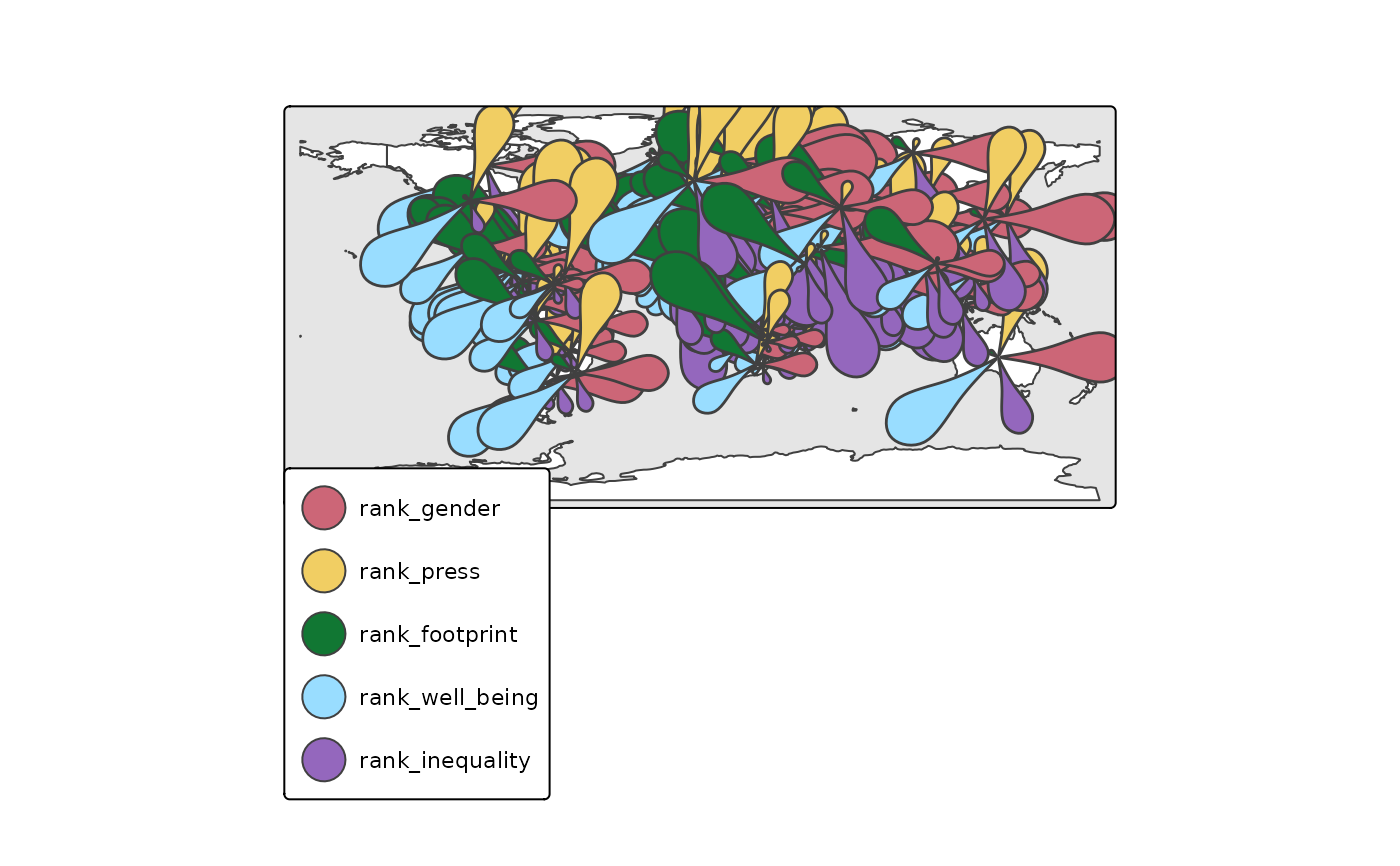
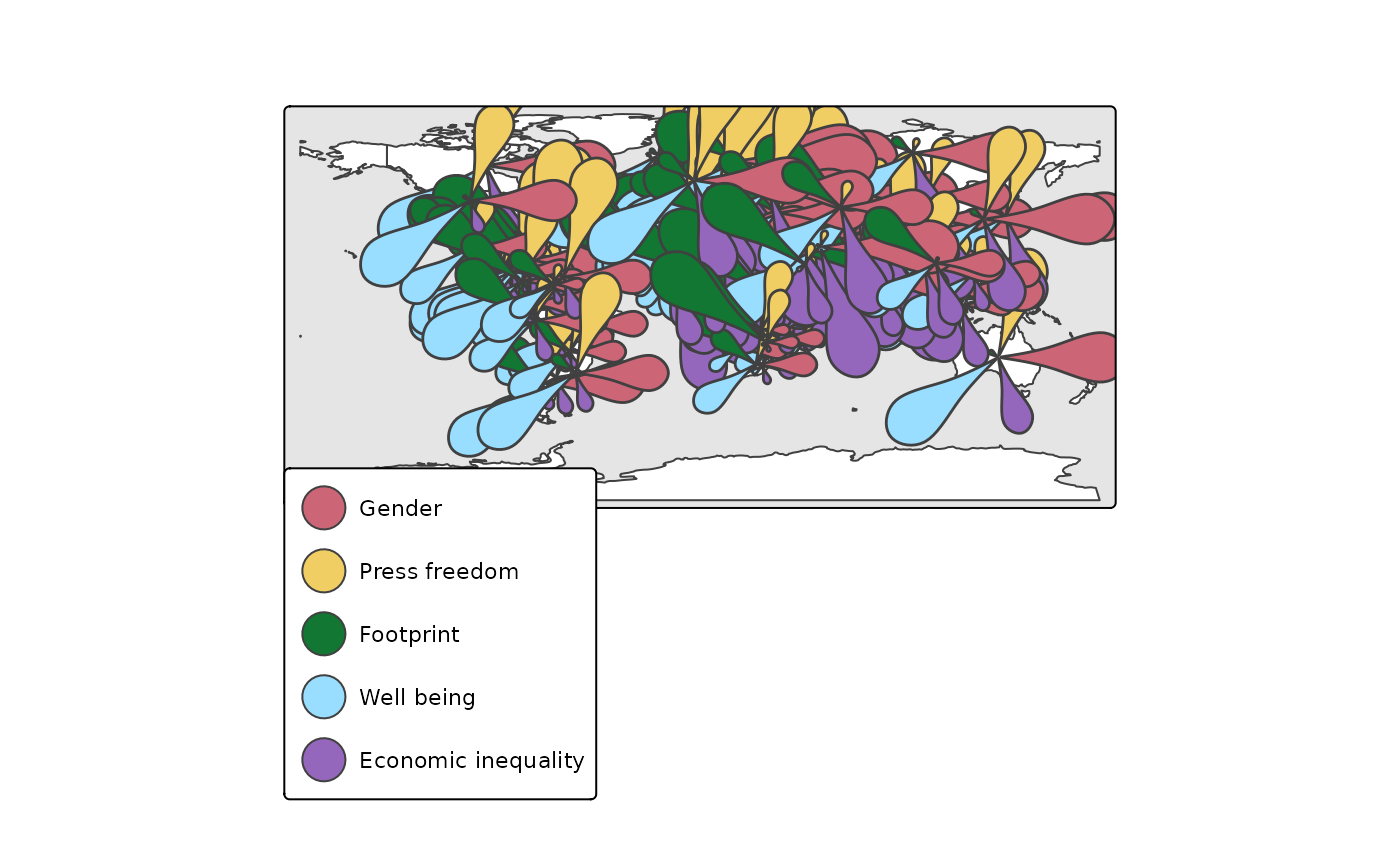
Deploying to gh-pages from @ r-tmap/tmap.glyphs@15ee0741f3b29877555251bc17bd8edcf9b6b12f 🚀

diff --git a/reference/tm_flowers.html b/reference/tm_flowers.html
@@ -7,7 +7,7 @@
 
     <a class="navbar-brand me-2" href="../index.html">tmap.glyphs</a>
 
-    <small class="nav-text text-muted me-auto" data-bs-toggle="tooltip" data-bs-placement="bottom" title="">0.1-1</small>
+    <small class="nav-text text-muted me-auto" data-bs-toggle="tooltip" data-bs-placement="bottom" title="">0.2</small>
 
 
     <button class="navbar-toggler" type="button" data-bs-toggle="collapse" data-bs-target="#navbar" aria-controls="navbar" aria-expanded="false" aria-label="Toggle navigation">
@@ -270,31 +270,30 @@ In that case, each list of formatting options is applied to the named variable.<
 <span class="r-in"><span><span class="va">World</span><span class="op">$</span><span class="va">rank_gender</span> <span class="op">=</span> <span class="fu"><a href="https://rdrr.io/r/base/quit.html" class="external-link">q</a></span><span class="op">(</span><span class="fl">1</span> <span class="op">-</span> <span class="va">World</span><span class="op">$</span><span class="va">gender</span><span class="op">)</span></span></span>
 <span class="r-in"><span></span></span>
 <span class="r-in"><span><span class="fu"><a href="https://r-tmap.github.io/tmap/reference/tm_shape.html" class="external-link">tm_shape</a></span><span class="op">(</span><span class="va">World</span><span class="op">)</span> <span class="op">+</span></span></span>
-<span class="r-in"><span>  <span class="fu"><a href="https://r-tmap.github.io/tmap/reference/tm_polygons.html" class="external-link">tm_polygons</a></span><span class="op">(</span>fill <span class="op">=</span> <span class="st">"white"</span>, popup.vars <span class="op">=</span> <span class="cn">FALSE</span><span class="op">)</span> <span class="op">+</span></span></span>
+<span class="r-in"><span>  <span class="fu"><a href="https://r-tmap.github.io/tmap/reference/tm_polygons.html" class="external-link">tm_polygons</a></span><span class="op">(</span>fill <span class="op">=</span> <span class="st">"white"</span>, popup <span class="op">=</span> <span class="cn">FALSE</span><span class="op">)</span> <span class="op">+</span></span></span>
 <span class="r-in"><span><span class="fu"><a href="https://r-tmap.github.io/tmap/reference/tm_shape.html" class="external-link">tm_shape</a></span><span class="op">(</span><span class="va">World</span><span class="op">)</span> <span class="op">+</span>  </span></span>
 <span class="r-in"><span>  <span class="fu">tm_flowers</span><span class="op">(</span></span></span>
 <span class="r-in"><span>    parts <span class="op">=</span> </span></span>
 <span class="r-in"><span>      <span class="fu"><a href="https://r-tmap.github.io/tmap/reference/tm_vars.html" class="external-link">tm_vars</a></span><span class="op">(</span><span class="fu"><a href="https://rdrr.io/r/base/c.html" class="external-link">c</a></span><span class="op">(</span><span class="st">"rank_gender"</span>, <span class="st">"rank_press"</span>, <span class="st">"rank_footprint"</span>, </span></span>
 <span class="r-in"><span>            <span class="st">"rank_well_being"</span>, <span class="st">"rank_inequality"</span><span class="op">)</span>, multivariate <span class="op">=</span> <span class="cn">TRUE</span><span class="op">)</span>,</span></span>
-<span class="r-in"><span>    fill.scale <span class="op">=</span> <span class="fu"><a href="https://r-tmap.github.io/tmap/reference/tm_scale.html" class="external-link">tm_scale</a></span><span class="op">(</span>values <span class="op">=</span> <span class="st">"friendly5"</span><span class="op">)</span>,</span></span>
+<span class="r-in"><span>    fill.scale <span class="op">=</span> <span class="fu"><a href="https://r-tmap.github.io/tmap/reference/tm_scale.html" class="external-link">tm_scale</a></span><span class="op">(</span>values <span class="op">=</span> <span class="st">"friendly5"</span>, labels <span class="op">=</span> <span class="fu"><a href="https://rdrr.io/r/base/c.html" class="external-link">c</a></span><span class="op">(</span><span class="st">"Gender"</span>, <span class="st">"Press freedom"</span>, <span class="st">"Footprint"</span>, <span class="st">"Well being"</span>, <span class="st">"Economic inequality"</span><span class="op">)</span><span class="op">)</span>,</span></span>
 <span class="r-in"><span>    size <span class="op">=</span> <span class="fl">1.5</span>, </span></span>
-<span class="r-in"><span>    popup <span class="op">=</span> <span class="fu"><a href="https://r-tmap.github.io/tmap/reference/tm_popup.html" class="external-link">tm_popup</a></span><span class="op">(</span>vars <span class="op">=</span> <span class="fu"><a href="https://rdrr.io/r/base/c.html" class="external-link">c</a></span><span class="op">(</span><span class="st">"Gender"</span> <span class="op">=</span> <span class="st">"norm_gender"</span>, <span class="st">"Press freedom"</span> <span class="op">=</span> <span class="st">"norm_press"</span>, <span class="st">"Footprint"</span> <span class="op">=</span> <span class="st">"norm_footprint"</span>, <span class="st">"Well being"</span> <span class="op">=</span> <span class="st">"norm_well_being"</span>, <span class="st">"Economic inequality"</span> <span class="op">=</span>  <span class="st">"norm_inequality"</span><span class="op">)</span><span class="op">)</span>, id <span class="op">=</span> <span class="st">"name"</span><span class="op">)</span> <span class="op">+</span> </span></span>
+<span class="r-in"><span>    popup <span class="op">=</span> <span class="fu"><a href="https://r-tmap.github.io/tmap/reference/tm_popup.html" class="external-link">tm_popup</a></span><span class="op">(</span></span></span>
+<span class="r-in"><span>      vars <span class="op">=</span> <span class="fu"><a href="https://rdrr.io/r/base/c.html" class="external-link">c</a></span><span class="op">(</span><span class="st">"Gender"</span> <span class="op">=</span> <span class="st">"rank_gender"</span>, </span></span>
+<span class="r-in"><span>           <span class="st">"Press freedom"</span> <span class="op">=</span> <span class="st">"rank_press"</span>, </span></span>
+<span class="r-in"><span>           <span class="st">"Footprint"</span> <span class="op">=</span> <span class="st">"rank_footprint"</span>, </span></span>
+<span class="r-in"><span>           <span class="st">"Well being"</span> <span class="op">=</span> <span class="st">"rank_well_being"</span>, </span></span>
+<span class="r-in"><span>           <span class="st">"Economic inequality"</span> <span class="op">=</span>  <span class="st">"rank_inequality"</span><span class="op">)</span>,</span></span>
+<span class="r-in"><span>      title <span class="op">=</span> <span class="st">"name"</span><span class="op">)</span><span class="op">)</span> <span class="op">+</span> </span></span>
 <span class="r-in"><span><span class="fu"><a href="https://r-tmap.github.io/tmap/reference/tm_basemap.html" class="external-link">tm_basemap</a></span><span class="op">(</span><span class="cn">NULL</span><span class="op">)</span> <span class="op">+</span></span></span>
 <span class="r-in"><span><span class="fu"><a href="https://r-tmap.github.io/tmap/reference/tm_layout.html" class="external-link">tm_layout</a></span><span class="op">(</span>bg.color <span class="op">=</span> <span class="st">"grey90"</span><span class="op">)</span></span></span>
-<span class="r-err co"><span class="r-pr">#&gt;</span> <span class="error">Error in eval(substitute(expr), e):</span> `popup.vars` must be one of "iso_a3", "name", "sovereignt", "continent",</span>
-<span class="r-err co"><span class="r-pr">#&gt;</span> "area", "pop_est", "pop_est_dens", "economy", "income_grp", "gdp_cap_est",</span>
-<span class="r-err co"><span class="r-pr">#&gt;</span> "life_exp", "well_being", "footprint", "HPI", "inequality", "gender", "press",</span>
-<span class="r-err co"><span class="r-pr">#&gt;</span> "rank_well_being", "rank_footprint", "rank_inequality", "rank_press", or</span>
-<span class="r-err co"><span class="r-pr">#&gt;</span> "rank_gender", not "norm_gender".</span>
-<span class="r-err co"><span class="r-pr">#&gt;</span> <span style="color: #00BBBB;">ℹ</span> Did you mean "rank_gender"?</span>
+<span class="r-plt img"><img src="tm_flowers-2.png" alt="" width="700" height="433"></span>
 <span class="r-in"><span></span></span>
 <span class="r-in"><span><span class="fu"><a href="https://r-tmap.github.io/tmap/reference/tmap_mode.html" class="external-link">ttmp</a></span><span class="op">(</span><span class="op">)</span></span></span>
 <span class="r-msg co"><span class="r-pr">#&gt;</span> <span style="color: #00BBBB;">ℹ</span> tmap modes <span style="color: #0000BB;">"plot"</span> - <span style="color: #0000BB; font-weight: bold;">"view"</span></span>
 <span class="r-msg co"><span class="r-pr">#&gt;</span> <span style="color: #00BBBB;">ℹ</span> toggle with `tmap::ttm()`</span>
 <span class="r-msg co"><span class="r-pr">#&gt;</span> <span style="color: #555555;">This message is displayed once per session.</span></span>
-<span class="r-msg co"><span class="r-pr">#&gt;</span> <span style="color: #00BB00;">[view mode]</span> WebGL does not work (yet) with projected map projections, so it has</span>
-<span class="r-msg co"><span class="r-pr">#&gt;</span> been disabled.</span>
-<span class="r-msg co"><span class="r-pr">#&gt;</span> <span style="color: #555555;">This message is displayed once per session.</span></span>
+<span class="r-err co"><span class="r-pr">#&gt;</span> <span class="error">Error:</span> not all variables specified in tm_vars are found</span>
 </code></pre></div>
     </div>
   </main><aside class="col-md-3"><nav id="toc" aria-label="Table of contents"><h2>On this page</h2>

diff --git a/authors.html b/authors.html
@@ -7,7 +7,7 @@
 
     <a class="navbar-brand me-2" href="index.html">tmap.glyphs</a>
 
-    <small class="nav-text text-muted me-auto" data-bs-toggle="tooltip" data-bs-placement="bottom" title="">0.1-1</small>
+    <small class="nav-text text-muted me-auto" data-bs-toggle="tooltip" data-bs-placement="bottom" title="">0.2</small>
 
 
     <button class="navbar-toggler" type="button" data-bs-toggle="collapse" data-bs-target="#navbar" aria-controls="navbar" aria-expanded="false" aria-label="Toggle navigation">
@@ -46,13 +46,13 @@
 
       <p>Tennekes M (2026).
 <em>tmap.glyphs: Extension to 'tmap' for Creating Glyphs</em>.
-R package version 0.1-1, <a href="https://github.com/r-tmap/tmap.glyphs" class="external-link">https://github.com/r-tmap/tmap.glyphs</a>.
+R package version 0.2, <a href="https://github.com/r-tmap/tmap.glyphs" class="external-link">https://github.com/r-tmap/tmap.glyphs</a>.
 </p>
       <pre>@Manual{,
   title = {tmap.glyphs: Extension to 'tmap' for Creating Glyphs},
   author = {Martijn Tennekes},
   year = {2026},
-  note = {R package version 0.1-1},
+  note = {R package version 0.2},
   url = {https://github.com/r-tmap/tmap.glyphs},
 }</pre>
     </div>

diff --git a/404.html b/404.html
@@ -26,7 +26,7 @@
 
     <a class="navbar-brand me-2" href="https://r-tmap.github.io/tmap.glyphs/index.html">tmap.glyphs</a>
 
-    <small class="nav-text text-muted me-auto" data-bs-toggle="tooltip" data-bs-placement="bottom" title="">0.1-1</small>
+    <small class="nav-text text-muted me-auto" data-bs-toggle="tooltip" data-bs-placement="bottom" title="">0.2</small>
 
 
     <button class="navbar-toggler" type="button" data-bs-toggle="collapse" data-bs-target="#navbar" aria-controls="navbar" aria-expanded="false" aria-label="Toggle navigation">

diff --git a/LICENSE-text.html b/LICENSE-text.html
@@ -7,7 +7,7 @@
 
     <a class="navbar-brand me-2" href="index.html">tmap.glyphs</a>
 
-    <small class="nav-text text-muted me-auto" data-bs-toggle="tooltip" data-bs-placement="bottom" title="">0.1-1</small>
+    <small class="nav-text text-muted me-auto" data-bs-toggle="tooltip" data-bs-placement="bottom" title="">0.2</small>
 
 
     <button class="navbar-toggler" type="button" data-bs-toggle="collapse" data-bs-target="#navbar" aria-controls="navbar" aria-expanded="false" aria-label="Toggle navigation">

diff --git a/articles/donuts.html b/articles/donuts.html
@@ -25,7 +25,7 @@
 
     <a class="navbar-brand me-2" href="../index.html">tmap.glyphs</a>
 
-    <small class="nav-text text-muted me-auto" data-bs-toggle="tooltip" data-bs-placement="bottom" title="">0.1-1</small>
+    <small class="nav-text text-muted me-auto" data-bs-toggle="tooltip" data-bs-placement="bottom" title="">0.2</small>
 
 
     <button class="navbar-toggler" type="button" data-bs-toggle="collapse" data-bs-target="#navbar" aria-controls="navbar" aria-expanded="false" aria-label="Toggle navigation">

diff --git a/articles/flowers.html b/articles/flowers.html
@@ -25,7 +25,7 @@
 
     <a class="navbar-brand me-2" href="../index.html">tmap.glyphs</a>
 
-    <small class="nav-text text-muted me-auto" data-bs-toggle="tooltip" data-bs-placement="bottom" title="">0.1-1</small>
+    <small class="nav-text text-muted me-auto" data-bs-toggle="tooltip" data-bs-placement="bottom" title="">0.2</small>
 
 
     <button class="navbar-toggler" type="button" data-bs-toggle="collapse" data-bs-target="#navbar" aria-controls="navbar" aria-expanded="false" aria-label="Toggle navigation">

diff --git a/articles/index.html b/articles/index.html
@@ -7,7 +7,7 @@
 
     <a class="navbar-brand me-2" href="../index.html">tmap.glyphs</a>
 
-    <small class="nav-text text-muted me-auto" data-bs-toggle="tooltip" data-bs-placement="bottom" title="">0.1-1</small>
+    <small class="nav-text text-muted me-auto" data-bs-toggle="tooltip" data-bs-placement="bottom" title="">0.2</small>
 
 
     <button class="navbar-toggler" type="button" data-bs-toggle="collapse" data-bs-target="#navbar" aria-controls="navbar" aria-expanded="false" aria-label="Toggle navigation">

diff --git a/index.html b/index.html
@@ -28,7 +28,7 @@
 
     <a class="navbar-brand me-2" href="index.html">tmap.glyphs</a>
 
-    <small class="nav-text text-muted me-auto" data-bs-toggle="tooltip" data-bs-placement="bottom" title="">0.1-1</small>
+    <small class="nav-text text-muted me-auto" data-bs-toggle="tooltip" data-bs-placement="bottom" title="">0.2</small>
 
 
     <button class="navbar-toggler" type="button" data-bs-toggle="collapse" data-bs-target="#navbar" aria-controls="navbar" aria-expanded="false" aria-label="Toggle navigation">

diff --git a/reference/index.html b/reference/index.html
@@ -7,7 +7,7 @@
 
     <a class="navbar-brand me-2" href="../index.html">tmap.glyphs</a>
 
-    <small class="nav-text text-muted me-auto" data-bs-toggle="tooltip" data-bs-placement="bottom" title="">0.1-1</small>
+    <small class="nav-text text-muted me-auto" data-bs-toggle="tooltip" data-bs-placement="bottom" title="">0.2</small>
 
 
     <button class="navbar-toggler" type="button" data-bs-toggle="collapse" data-bs-target="#navbar" aria-controls="navbar" aria-expanded="false" aria-label="Toggle navigation">

diff --git a/reference/internals_glyphs.html b/reference/internals_glyphs.html
@@ -7,7 +7,7 @@
 
     <a class="navbar-brand me-2" href="../index.html">tmap.glyphs</a>
 
-    <small class="nav-text text-muted me-auto" data-bs-toggle="tooltip" data-bs-placement="bottom" title="">0.1-1</small>
+    <small class="nav-text text-muted me-auto" data-bs-toggle="tooltip" data-bs-placement="bottom" title="">0.2</small>
 
 
     <button class="navbar-toggler" type="button" data-bs-toggle="collapse" data-bs-target="#navbar" aria-controls="navbar" aria-expanded="false" aria-label="Toggle navigation">

diff --git a/reference/tm_donuts.html b/reference/tm_donuts.html
@@ -7,7 +7,7 @@
 
     <a class="navbar-brand me-2" href="../index.html">tmap.glyphs</a>
 
-    <small class="nav-text text-muted me-auto" data-bs-toggle="tooltip" data-bs-placement="bottom" title="">0.1-1</small>
+    <small class="nav-text text-muted me-auto" data-bs-toggle="tooltip" data-bs-placement="bottom" title="">0.2</small>
 
 
     <button class="navbar-toggler" type="button" data-bs-toggle="collapse" data-bs-target="#navbar" aria-controls="navbar" aria-expanded="false" aria-label="Toggle navigation">

diff --git a/reference/tm_scale_composition.html b/reference/tm_scale_composition.html
@@ -13,7 +13,7 @@ The function `tm_scale_composition()` is used for the creation of composition gl
 
     <a class="navbar-brand me-2" href="../index.html">tmap.glyphs</a>
 
-    <small class="nav-text text-muted me-auto" data-bs-toggle="tooltip" data-bs-placement="bottom" title="">0.1-1</small>
+    <small class="nav-text text-muted me-auto" data-bs-toggle="tooltip" data-bs-placement="bottom" title="">0.2</small>
 
 
     <button class="navbar-toggler" type="button" data-bs-toggle="collapse" data-bs-target="#navbar" aria-controls="navbar" aria-expanded="false" aria-label="Toggle navigation">